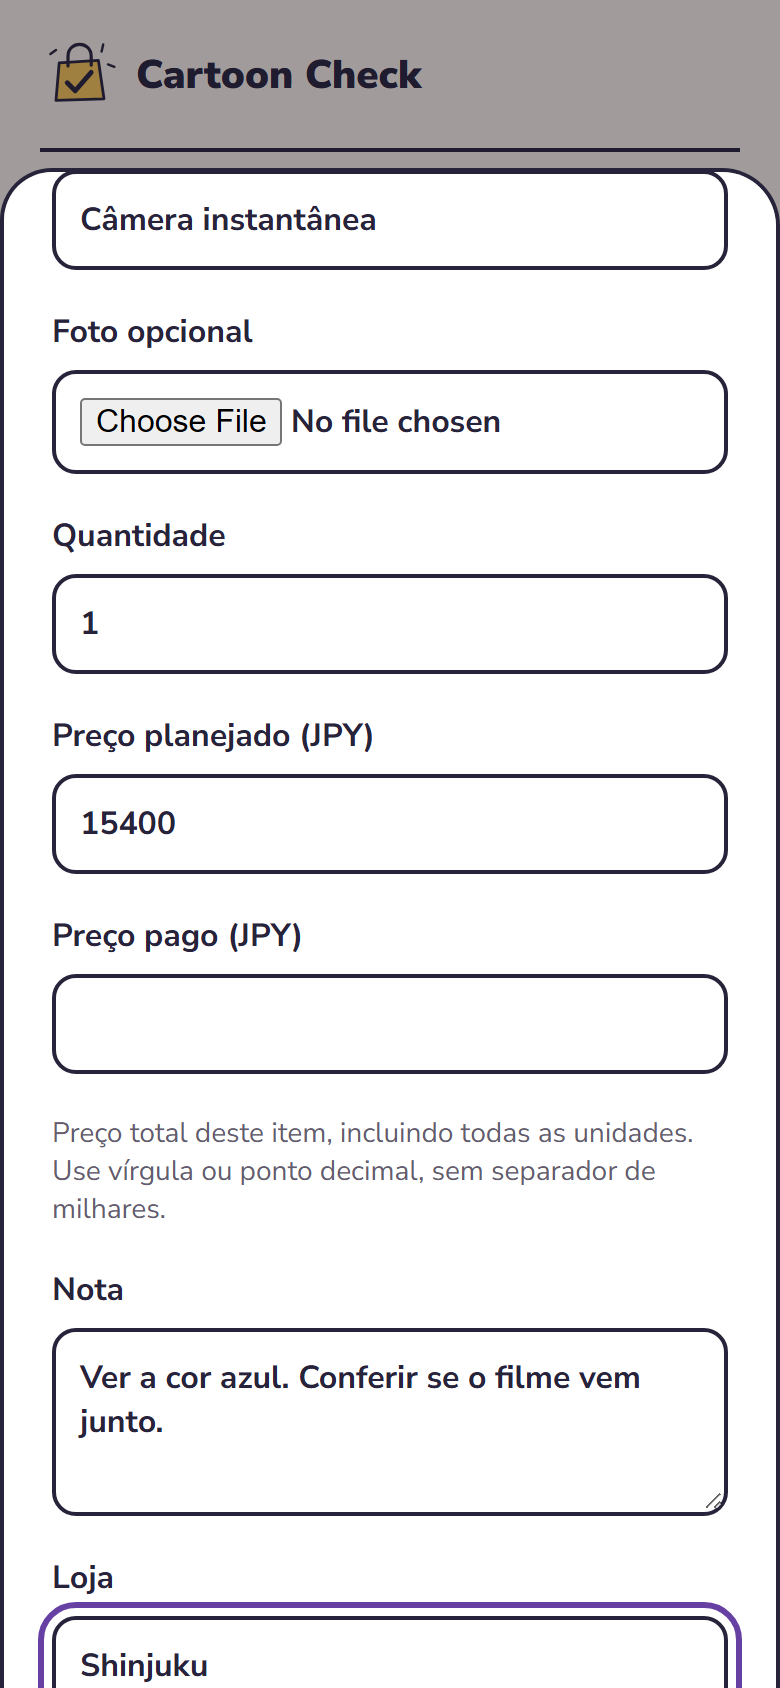
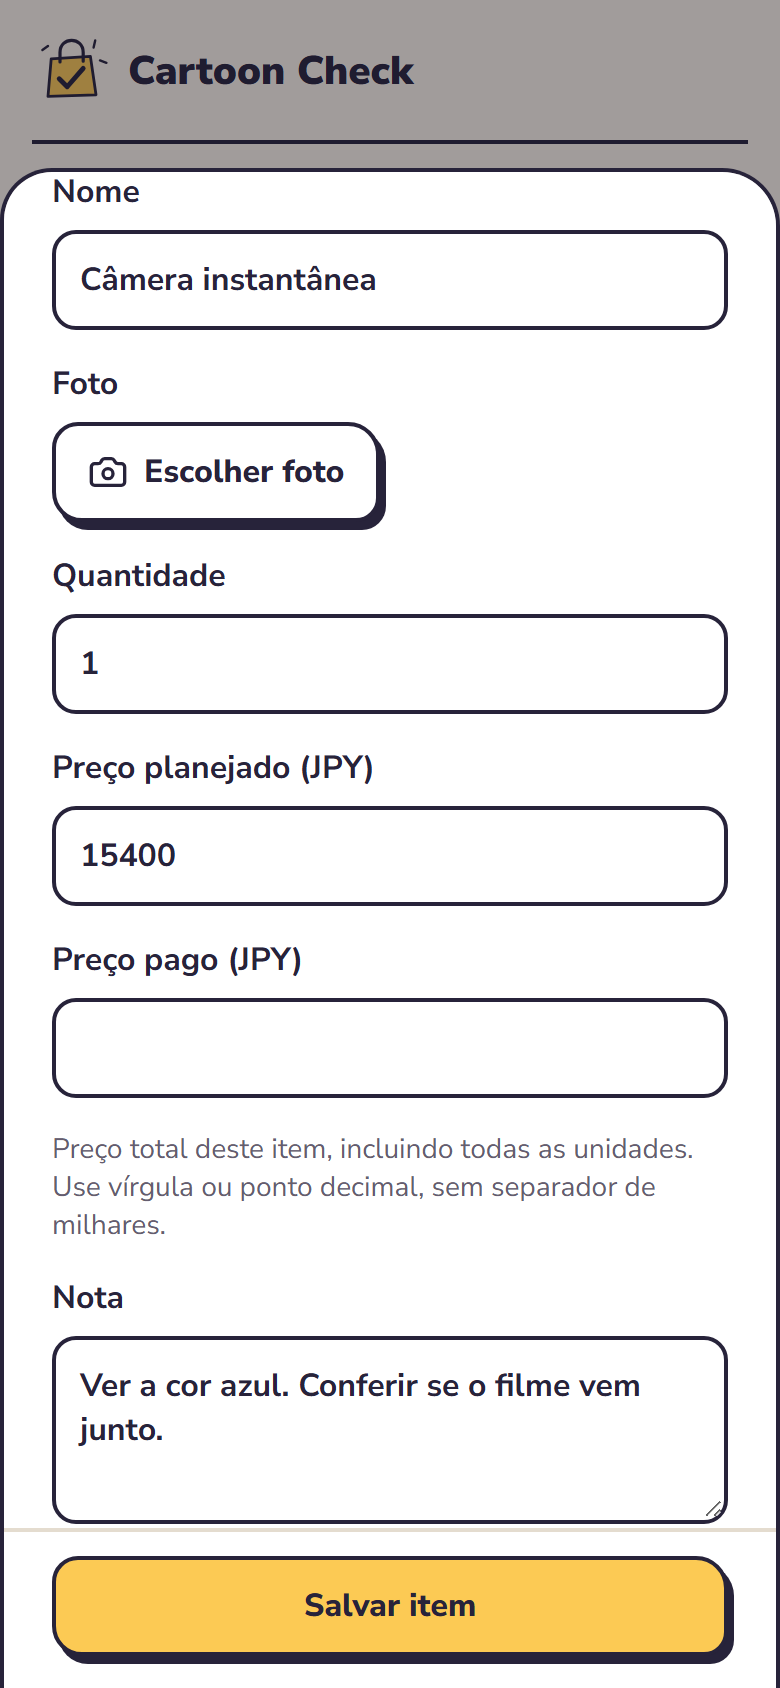
chore: release 0.2.0
Documenta os seis temas, os stickers, o recomeço de lista e as mudanças de
interface, atualiza as capturas do README e aponta para o aplicativo
publicado.

diff --git a/README.md b/README.md
@@ -8,18 +8,20 @@ stays on your device and keeps working offline.
 
 The interface is in Brazilian Portuguese.
 
+**Live app:** <https://cartooncheck.vercel.app>
+
 <p>
   <img src="docs/screenshots/landing.png" alt="Landing page with the interactive check demo" width="19%" />
   <img src="docs/screenshots/list.png" alt="A list with progress, totals and pending items" width="19%" />
   <img src="docs/screenshots/item-details.png" alt="Item details sheet with price, note and store" width="19%" />
-  <img src="docs/screenshots/themes-sakura.png" alt="Theme selection in the Sakura theme" width="19%" />
-  <img src="docs/screenshots/home-night.png" alt="Home screen in the Night Cartoon theme" width="19%" />
+  <img src="docs/screenshots/themes.png" alt="The six themes, with Candy selected" width="19%" />
+  <img src="docs/screenshots/home-space.png" alt="Home screen in the Space theme" width="19%" />
 </p>
 
 ## What it does
 
-- **Lists**: create, edit, archive, reactivate and delete, each with an emoji
-  and a currency.
+- **Lists**: create, edit, archive, reactivate and delete, each with an icon
+  and a currency. A finished list can be started over for the next trip.
 - **Quick add**: only a name is required, and the field stays ready for the
   next item.
 - **Check and celebrate**: a drawn check, a short particle burst, and a larger
@@ -31,7 +33,8 @@ The interface is in Brazilian Portuguese.
 - **Manual exchange rate**: an approximate conversion to a second currency,
   with exact arithmetic. No rates are fetched from the internet.
 - **History**: a readable log of what was added, bought, undone and removed.
-- **Three themes**: Comic Pop, Sakura and Night Cartoon.
+- **Six themes**: Comic Pop, Sakura, Night Cartoon, Candy, Doodle and Space,
+  plus ten stickers for the profile.
 - **Backup and restore**: one file with all data and photos, validated before
   anything is replaced.
 - **Installable and offline**: a PWA with guarded updates that never reload
@@ -115,7 +118,7 @@ More detail is in [docs/architecture.md](docs/architecture.md).
 ## Quality
 
 **Accessibility.** The target is WCAG 2.2 AA. An automated axe audit covers
-every screen and dialog in the three themes. Separate tests cover keyboard
+every screen and dialog in the six themes. Separate tests cover keyboard
 use, focus after each action, reduced motion and seven viewport sizes from
 320 px to desktop, including landscape. No screen reader session on a real
 device was performed.

diff --git a/CHANGELOG.md b/CHANGELOG.md
@@ -4,6 +4,33 @@ All notable changes to this project are documented here. The format follows
 [Keep a Changelog](https://keepachangelog.com/en/1.1.0/) and the project uses
 [Semantic Versioning](https://semver.org/spec/v2.0.0.html).
 
+## [0.2.0] - 2026-10-07
+
+### Added
+
+- Three themes: Candy, Doodle and Space, each with its own celebration
+  particles.
+- Five more profile stickers and a grid of suggested icons for lists.
+- Start a list over: purchased items go back to pending for the next trip.
+- Items show that their name opens the details.
+
+### Changed
+
+- Spacing follows a single scale and navigation uses the same chevron
+  everywhere.
+- The main action is docked above the navigation on the home screen too, over
+  a solid band, so content no longer shows between the bars.
+- The save button and its error stay in view in long sheets.
+- File fields use the app's own buttons instead of the native control.
+- The offline status moved from the top of every screen to the settings.
+
+### Fixed
+
+- The draft notice no longer appears behind the form that is being edited.
+
+Backups made by this version may use the new themes and stickers and are not
+accepted by 0.1.0.
+
 ## [0.1.0] - 2026-10-06
 
 First public version.
@@ -33,4 +60,5 @@ First public version.
 - Not yet tested on physical Android or iOS devices.
 - Automated tests cover Chromium only.
 
+[0.2.0]: https://github.com/RDEsley/CartoonCheck/releases/tag/v0.2.0
 [0.1.0]: https://github.com/RDEsley/CartoonCheck/releases/tag/v0.1.0

diff --git a/docs/architecture.md b/docs/architecture.md
@@ -46,6 +46,10 @@ and zero is a valid price. Quantity never multiplies a price.
 - **Ordering.** Each change is timestamped after the previous one, so order is
   stable even within one millisecond or after the clock moves back.
 
+Starting a list over returns every purchased item to pending in one
+transaction and clears the price paid; it is confirmed first because it has no
+undo.
+
 Buying is explicit and idempotent. Only buying the last pending item of a
 non-empty list records a completion; deleting it does not.
 
